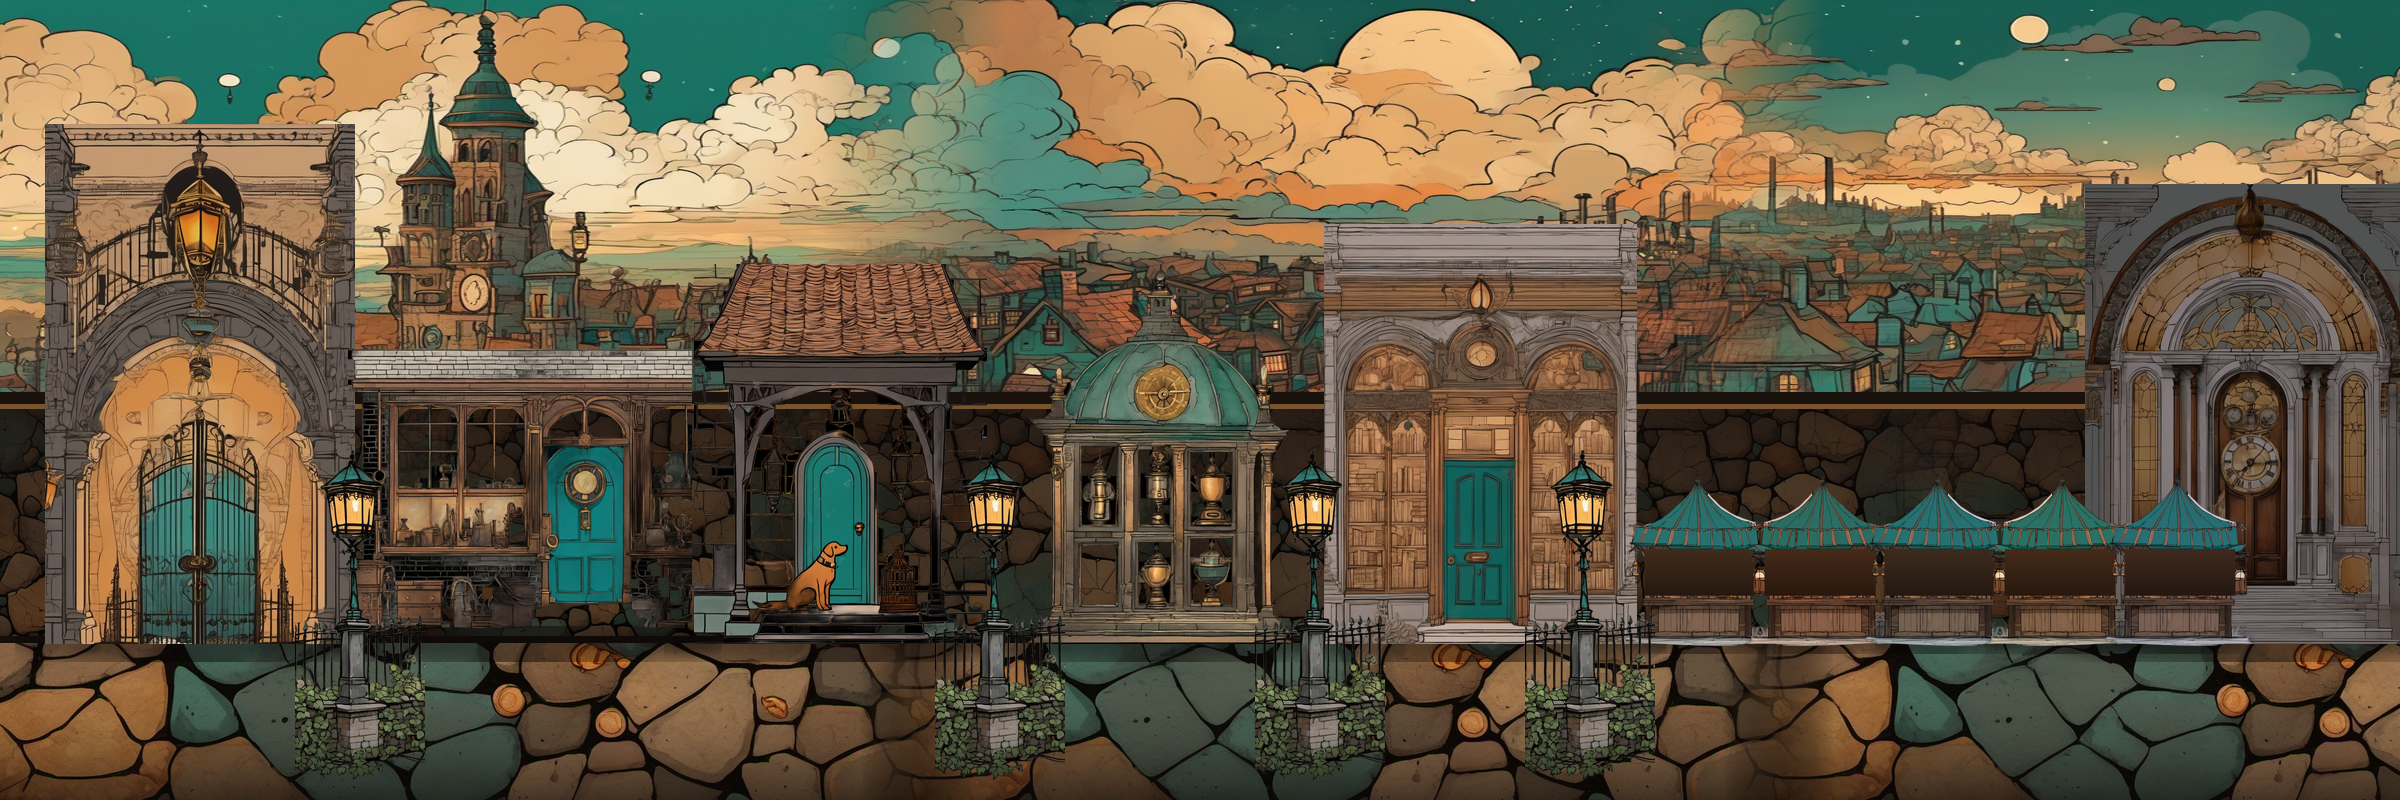
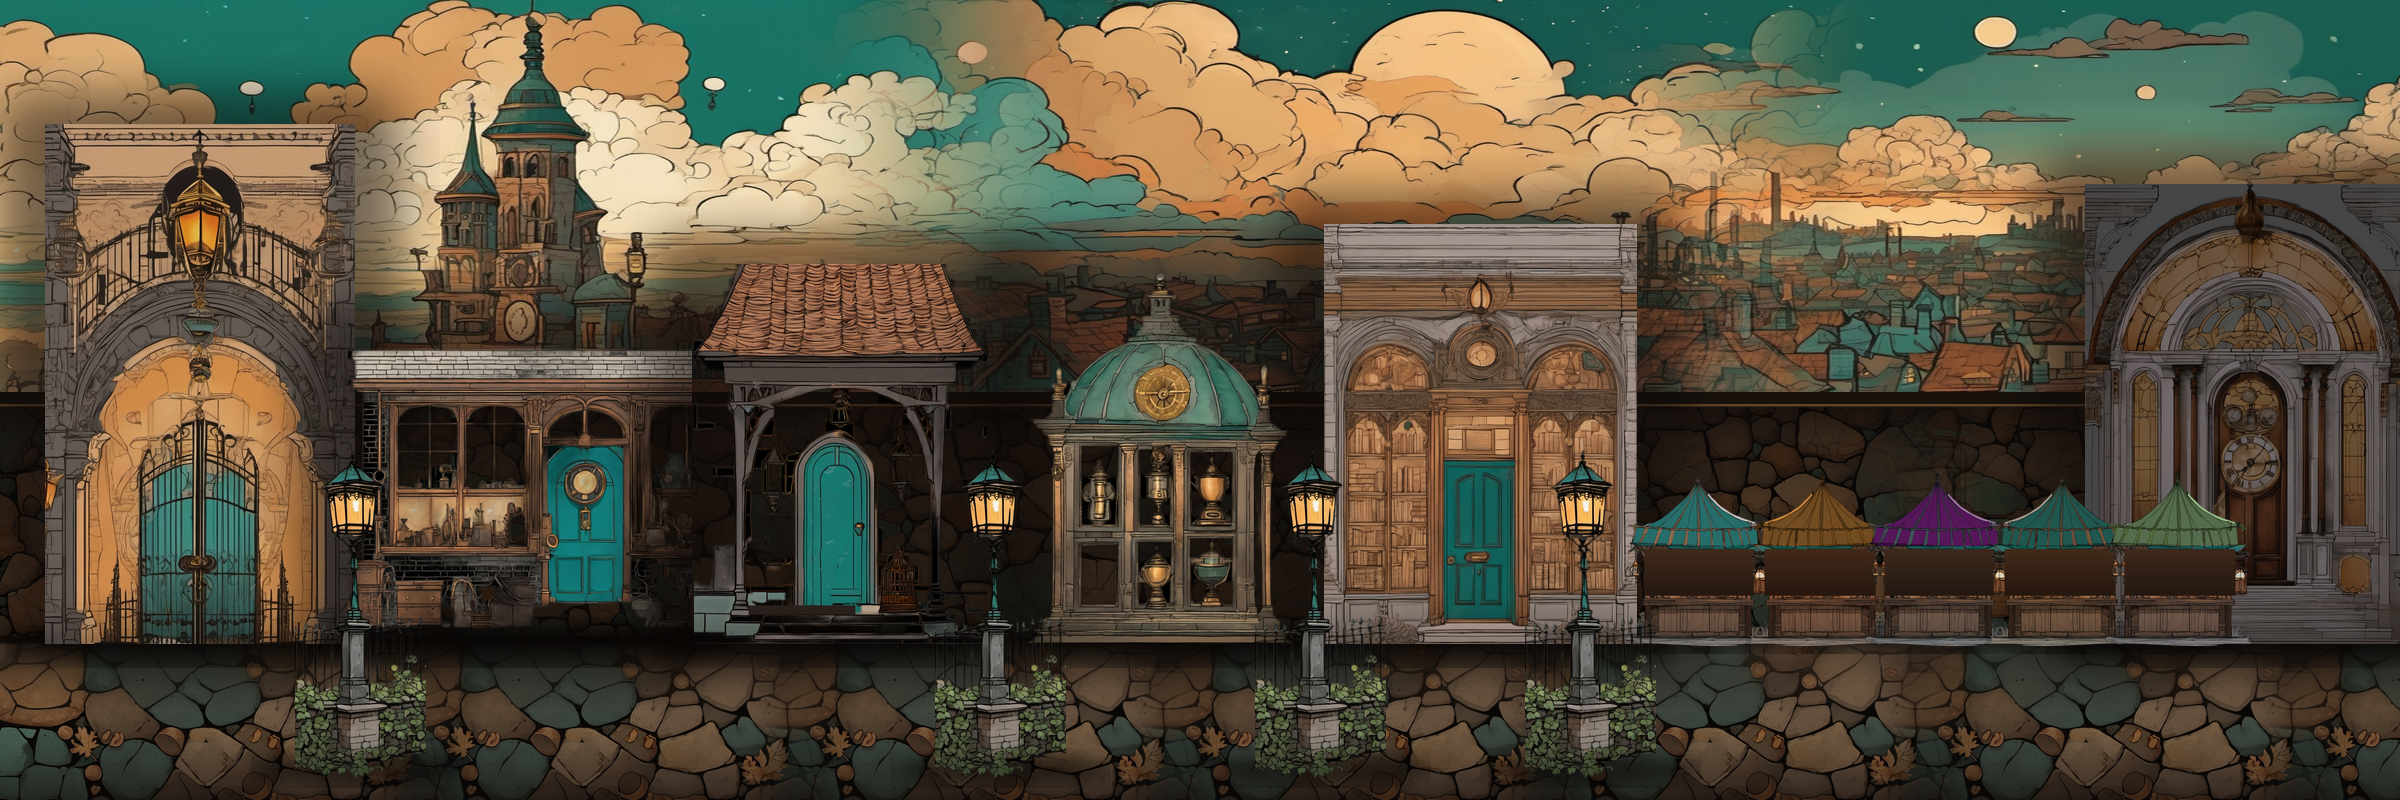
B10a.3 bellfoot art round 2: feathered fronts with contact shadows, smaller calmer cobbles with a walk lane, sky seams, dog removed, varied awnings

diff --git a/art/bellfoot/build.py b/art/bellfoot/build.py
@@ -36,7 +36,7 @@ def tint(im, mul=(1, 1, 1), bright=1.0):
 
 # ---------------- sky: the town and the Spire at dusk (scaled so the rooftops meet the wall's top) ----------------
 def sky():
-    k = 0.62  # 640 painted rows of the picture (everything above its rooftops) fill the 400 px above the wall
+    k = 0.68  # 640 painted rows of the picture (everything above its rooftops) fill the 400 px above the wall
     a = rgba(CAND / "sky_seed3.png")
     a = a.resize((round(a.width * k), round(a.height * k)), Image.LANCZOS)
     b = rgba(CAND / "sky2_seed1.png")
@@ -50,18 +50,58 @@ def sky():
             out.paste(im, (0, 0))
             x = im.width
             continue
-        fade = 140
+        fade = 240
         layer = Image.new("RGBA", out.size, (0, 0, 0, 0))
         layer.paste(im, (x - fade, 0))
         m = Image.new("L", out.size, 0)
         d = ImageDraw.Draw(m)
         for xx in range(x - fade, min(1800, x - fade + im.width)):
-            d.line([(xx, 0), (xx, 800)], fill=min(255, int(255 * (xx - (x - fade)) / fade)))
+            d.line([(xx, 0), (xx, 800)], fill=int(255 * (lambda t: t * t * (3 - 2 * t))(min(1.0, (xx - (x - fade)) / fade))))
         out.paste(layer, (0, 0), m)
         x = x - fade + im.width
     # below the pictures (hidden by the wall) a dark rooftop band
     ImageDraw.Draw(out).rectangle([0, 516, 1800, 800], fill=(24, 16, 12, 255))
     return out.convert("RGB")
+
+
+def awning(s, i):
+    """Vary the five awnings: teal, amber, plum, original teal darker, sage; the tables get a light tint."""
+    r, g, b, a = s.split()
+    top = Image.new("L", s.size, 0)
+    ImageDraw.Draw(top).rectangle([0, 0, s.width, int(s.height * 0.42)], fill=255)
+    mix = {
+        0: (r, g, b),
+        1: (g, g.point(lambda v: int(v * 0.72)), b.point(lambda v: int(v * 0.35))),
+        2: (b.point(lambda v: int(v * 0.85)), r.point(lambda v: int(v * 0.6)), g.point(lambda v: int(v * 0.8))),
+        3: tuple(c.point(lambda v: int(v * 0.8)) for c in (r, g, b)),
+        4: (g.point(lambda v: int(v * 0.8)), g, b.point(lambda v: int(v * 0.7))),
+    }[i]
+    var = Image.merge("RGBA", (*mix, a))
+    out = Image.composite(var, s, top)
+    return tint(out, [(1, 1, 1), (1.05, 0.97, 0.92), (0.96, 1.0, 1.04), (1.03, 1.0, 0.94), (0.98, 0.99, 1.04)][i], 0.92)
+
+
+def no_dog(im):
+    """Sprocket's doorstep: the real Sprocket stands here, so paint the sitting dog out of the cut (869 x 1074):
+    its warm pixels are masked, grown, and filled with the rows 175 px above (door panel, wall), then the step is redrawn."""
+    sx = im.width / 869
+    box = tuple(int(v * sx) for v in (195, 790, 480, 1000))
+    px = im.convert("RGBA")
+    r, g, b, a = px.split()
+    warm = Image.new("L", px.size, 0)
+    wp, rp, gp, bp = warm.load(), r.load(), g.load(), b.load()
+    for y in range(box[1], box[3]):
+        for x in range(box[0], box[2]):
+            if rp[x, y] > 100 and rp[x, y] - bp[x, y] > 35 and rp[x, y] > gp[x, y] + 12:
+                wp[x, y] = 255
+    mask = warm.filter(ImageFilter.MaxFilter(13)).filter(ImageFilter.GaussianBlur(2))
+    shift = int(175 * sx)
+    src = Image.new("RGBA", px.size)
+    src.paste(px, (0, shift))
+    out = Image.composite(src, px, mask)
+    # the doorstep: a dark worn slab along the foot of the door where the dog's paws were
+    ImageDraw.Draw(out).rectangle([int(205 * sx), int(978 * sx), int(470 * sx), int(1000 * sx)], fill=(46, 38, 34, 255))
+    return out
 
 
 # ---------------- street: back wall, cobbles, the fronts ----------------
@@ -82,7 +122,7 @@ def tile_h(src, width, fade=110):
     return out
 
 
-DUSK = {"gate": (0.9, 0.84, 0.82), "archivist": (0.86, 0.8, 0.78), "clocktower": (0.55, 0.52, 0.54), "sprocket": (0.95, 0.9, 0.88)}
+DUSK = {"gate": (0.9, 0.84, 0.82), "archivist": (0.86, 0.8, 0.78), "clocktower": (0.47, 0.44, 0.46), "sprocket": (0.95, 0.9, 0.88)}
 
 
 def street():
@@ -100,13 +140,28 @@ def street():
     wall = Image.composite(dark, wall, shade)
     img.paste(wall, (0, WALL))
     d = ImageDraw.Draw(img)
-    d.rectangle([0, WALL - 8, W, WALL + 4], fill=(24, 17, 12, 255))  # the coping
-    d.rectangle([0, WALL + 4, W, WALL + 8], fill=(120, 84, 48, 255))
+    # one continuous cornice at a constant height: a dark coping, a thin warm edge and a soft shadow under it
+    d.rectangle([0, WALL - 8, W, WALL + 4], fill=(24, 17, 12, 255))
+    d.rectangle([0, WALL + 4, W, WALL + 6], fill=(96, 68, 40, 255))
+    under = Image.new("RGBA", (W, 60), (0, 0, 0, 0))
+    ud = ImageDraw.Draw(under)
+    for y in range(60):
+        ud.line([(0, y), (W, y)], fill=(10, 6, 5, int(120 * (1 - y / 59) ** 2)))
+    img.alpha_composite(under, (0, WALL + 6))
     # cobbles: the leaves-and-cogs texture, a worn gutter edge at the wall's foot
     cob = rgba(CAND / "ground_seed4.png")
-    cob = cob.resize((int(cob.width * 0.8), int(cob.height * 0.8)), Image.LANCZOS).crop((0, 0, 972, H - GROUND))
+    cob = cob.resize((int(cob.width * 0.4), int(cob.height * 0.4)), Image.LANCZOS).crop((0, 0, 486, H - GROUND))
     cob = tile_h(cob, W)
-    cob = tint(cob, (1.0, 0.92, 0.85), 0.88)
+    cob = ImageEnhance.Color(cob.convert("RGB")).enhance(0.72).convert("RGBA")  # about 20 percent less saturated
+    cob = tint(cob, (1.0, 0.92, 0.85), 0.7)
+    # a calm walk lane: the cobbles melt toward their own soft average and darken from the ground line to y 700
+    soft = cob.filter(ImageFilter.GaussianBlur(9))
+    lane = Image.new("L", cob.size, 0)
+    ld = ImageDraw.Draw(lane)
+    for y in range(cob.height):
+        ld.line([(0, y), (W, y)], fill=int(190 * max(0.0, 1 - y / 70) ** 0.8))
+    cob = Image.composite(soft, cob, lane)
+    cob = Image.composite(Image.new("RGBA", cob.size, (22, 15, 11, 255)), cob, lane.point(lambda v: v // 3))
     img.paste(cob, (0, GROUND))
     d.rectangle([0, GROUND - 4, W, GROUND + 2], fill=(20, 14, 10, 255))
     # places, back to front by x: (name, anchor x, height, crop box or None, mirror)
@@ -121,6 +176,7 @@ def street():
     for name, x, h, crop in places:
         im = rgba(CUTS / f"{name}.png")
         if crop == "sprocket":
+            im = no_dog(im)
             im = im.crop((int(im.width * 0.08), int(im.height * 0.12), int(im.width * 0.92), im.height))
         elif crop:
             im = im.crop(crop)
@@ -128,15 +184,26 @@ def street():
         solid = a.point(lambda v: 255 if v > 100 else 0)
         closed = solid.filter(ImageFilter.MaxFilter(21)).filter(ImageFilter.MinFilter(21))  # fills windows and holes the cutout left see-through
         a = ImageChops.lighter(a.point(lambda v: 0 if v < 110 else v), closed)
+        # feather the outer 8 to 12 px so no front reads as a pasted rectangle
+        a = a.filter(ImageFilter.MinFilter(5)).filter(ImageFilter.GaussianBlur(4))
         im.putalpha(a)
         if name in DUSK:
             im = tint(im, DUSK[name], 1.0)
         im = fit_h(im, h)
-        # a soft shadow on the cobbles under each front
-        sh = Image.new("RGBA", (im.width + 60, 36), (0, 0, 0, 0))
-        ImageDraw.Draw(sh).ellipse([0, 0, sh.width - 1, 35], fill=(8, 5, 4, 120))
-        sh = sh.filter(ImageFilter.GaussianBlur(7))
-        img.alpha_composite(sh, (x - sh.width // 2, GROUND - 14))
+        # a darker band on the wall behind the front, so it sits in the street instead of on it
+        bw, bh = im.width + 90, im.height + 50
+        band = Image.new("RGBA", (bw + 80, bh + 80), (0, 0, 0, 0))
+        ImageDraw.Draw(band).rounded_rectangle([40, 40, bw + 40, bh + 40], 30, fill=(14, 9, 7, 140))
+        band = band.filter(ImageFilter.GaussianBlur(22))
+        img.alpha_composite(band, (x - band.width // 2, GROUND + 25 - band.height + 40))
+        # a soft contact shadow on the cobbles and a baseline strip at the ground line
+        sh = Image.new("RGBA", (im.width + 80, 50), (0, 0, 0, 0))
+        ImageDraw.Draw(sh).ellipse([0, 8, sh.width - 1, 44], fill=(6, 4, 3, 170))
+        sh = sh.filter(ImageFilter.GaussianBlur(9))
+        img.alpha_composite(sh, (x - sh.width // 2, GROUND - 22))
+        base = Image.new("RGBA", (im.width + 20, 24), (0, 0, 0, 0))
+        ImageDraw.Draw(base).rectangle([6, 6, base.width - 6, 18], fill=(8, 5, 4, 150))
+        img.alpha_composite(base.filter(ImageFilter.GaussianBlur(5)), (x - base.width // 2, GROUND - 14))
         img.alpha_composite(im, (x - im.width // 2, GROUND + 4 - im.height))
     # five empty stall frames, 120 apart, overlapping a little like a market row; alternate mirrored and tinted
     stall = rgba(CUTS / "stall.png")
@@ -150,12 +217,19 @@ def street():
     stall = fit_w(stall, 150)
     for i in range(5):
         s = stall.transpose(Image.FLIP_LEFT_RIGHT) if i % 2 else stall
-        s = tint(s, [(1, 1, 1), (1.08, 0.96, 0.9), (0.94, 1.0, 1.04), (1.05, 1.0, 0.92), (0.96, 0.98, 1.06)][i], 0.95)
+        s = awning(s, i)
         x = 1700 + i * 120
         sh = Image.new("RGBA", (s.width, 24), (0, 0, 0, 0))
         ImageDraw.Draw(sh).ellipse([4, 0, s.width - 5, 23], fill=(8, 5, 4, 110))
         img.alpha_composite(sh.filter(ImageFilter.GaussianBlur(5)), (x - s.width // 2, GROUND - 10))
         img.alpha_composite(s, (x - s.width // 2, GROUND + 6 - s.height))
+    # the walk lane: the foot of every front dims a little (y 590 to the ground line) so walkers stand out
+    dim = Image.new("RGBA", (W, 60), (0, 0, 0, 0))
+    dd = ImageDraw.Draw(dim)
+    for y in range(60):
+        dd.line([(0, y), (W, y)], fill=(12, 8, 6, int(85 * (y / 59) ** 1.5)))
+    dim.putalpha(ImageChops.multiply(dim.getchannel("A"), img.crop((0, 585, W, 645)).getchannel("A")))
+    img.alpha_composite(dim, (0, 585))
     return img
 
 
@@ -163,11 +237,14 @@ def street():
 def foreground():
     img = Image.new("RGBA", (W, H), (0, 0, 0, 0))
     lamp = rgba(CUTS / "lamp.png")
-    lamp.putalpha(lamp.getchannel("A").point(lambda v: 0 if v < 110 else v))
+    lamp.putalpha(lamp.getchannel("A").point(lambda v: 0 if v < 110 else v).filter(ImageFilter.MinFilter(3)).filter(ImageFilter.GaussianBlur(1.4)))
     lamp = lamp.crop((int(lamp.width * 0.36), 0, int(lamp.width * 0.66), lamp.height))
     bbox = lamp.getchannel("A").point(lambda v: 255 if v > 24 else 0).getbbox()
     lamp = fit_h(lamp.crop(bbox), 330)
     for x in (360, 1000, 1320, 1590):
+        gs = Image.new("RGBA", (lamp.width + 90, 40), (0, 0, 0, 0))
+        ImageDraw.Draw(gs).ellipse([0, 8, gs.width - 1, 34], fill=(6, 4, 3, 150))
+        img.alpha_composite(gs.filter(ImageFilter.GaussianBlur(8)), (x - gs.width // 2, H - 52))
         img.alpha_composite(lamp, (x - lamp.width // 2, H - 20 - lamp.height))
     shade = Image.new("RGBA", (W, 120), (0, 0, 0, 0))
     sd = ImageDraw.Draw(shade)

diff --git a/art/bellfoot/notes.md b/art/bellfoot/notes.md
@@ -3,3 +3,9 @@
 Style v3 (art/style.json). Pieces are generated with `gen.py` (ComfyUI SDXL, 4 seeds each), cut out with `cut.py` (rembg; framed pictures that fill their frame are kept as opaque rectangles with feathered sides), and assembled with `build.py` into three layers: `sky` (the Spire and the town at dusk, three skies blended, parallax 0.3), `street` (a dusk stone wall, cobbles with leaves and cogs, the seven fronts at their contract anchors on y 640, five empty stall frames 120 apart), `foreground` (lamp posts and a shade at the foot).
 Picks: gate gate_seed2, workshop workshop_seed2 (cropped to the door and bench window), Sprocket sprocket_seed2 (a doorstep with a dog and a basket-like birdcage), trophies trophies_seed1, archivist archivist_seed2, stall stall_seed1 (the goods painted over), clock tower clocktower_seed3, lamps wall_seed1; skies sky_seed3 + sky2_seed1 + sky2_seed3.
 Shipped: sky.webp 1800x800, street.webp 2400x800, foreground.webp 2400x800 (about 0.4 MB of the 0.6 MB budget). Not done: a 2x repaint (it would double the dimensions and bust the budget; the scene is shown at 1x to 1.6x), a fully painted back wall (a tinted stone texture stands in), per-place hover glow (code).
+
+## Round 2 (art review fixes, all in build.py, no regeneration)
+- Fronts: alpha eroded and blurred (8 to 12 px feather), a blurred dark band on the wall behind each, a soft contact shadow and a baseline strip at y 640.
+- Cobbles: scaled to 0.4 (about half the stone size), 28 percent less saturated and darker; a calm walk lane (cobbles melt toward their soft average and darken from y 640 to 700; the foot of every front dims from y 585).
+- Wall: one continuous cornice at y 400 with a soft shadow under it. Sky: seams blended with a 240 px smoothstep mask, sky scaled 0.68. Clock tower front exposure about 15 percent lower. The painted dog on Sprocket's doorstep is painted out (doorstep and birdcage stay). Lamp posts and fences: eroded and feathered alpha, soft ground shadow. Stall awnings vary: teal, amber, plum, dark teal, sage.
+- Checks: crops in art/bellfoot/crops/ (667x375 equivalents of 1423x800 units, plus a 1:1 of Sprocket's corner). Shipped 0.50 MB of the 0.6 MB budget.
